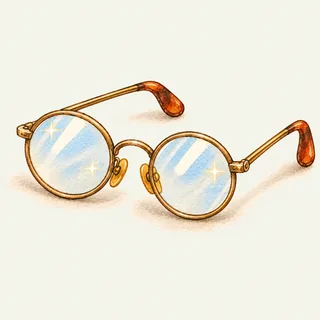
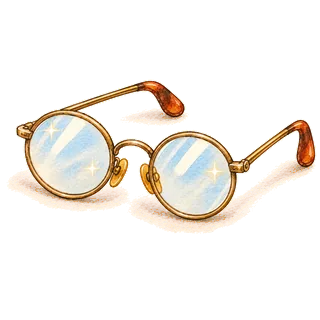
Průhledné pozadí u kreslených věcí
Obrázky zásilek z ChatGPT mají krémové pozadí a na barevné kartě
(pohlednice, balík) bylo vidět jako čtverec. Násobení barev ho jen
ztlumilo. nastroje/obrazky.py teď u karet zprůhlední pozadí spojené
s okrajem obrázku a stín nechá poloprůhledný. CSS už barvy nenásobí.

Claude-Session: https://claude.ai/code/session_01GNaERCVCMNxDha3AsCqcsP

diff --git a/hra.css b/hra.css
@@ -328,8 +328,8 @@ button { font: inherit; color: inherit; }
 .zasilka__hore { display: flex; justify-content: space-between; align-items: flex-start; }
 .zasilka .emoji { font-size: 22px; line-height: 1; }
 .zasilka .obrazek { width: 30px; height: 30px; object-fit: contain; }
-/* Kreslené věci mají světlé pozadí jako papír karty. Násobení ho zneviditelní i na tmavší kartě. */
-.zasilka--obrazek .obrazek { width: 36px; height: 36px; margin: -3px 0 -4px -3px; mix-blend-mode: multiply; }
+/* Kreslené věci mají průhledné pozadí (nastroje/obrazky.py), takže můžou být o něco větší než emoji. */
+.zasilka--obrazek .obrazek { width: 36px; height: 36px; margin: -3px 0 -4px -3px; }
 .znamka {
   width: 16px;
   height: 19px;
@@ -421,7 +421,7 @@ button { font: inherit; color: inherit; }
 .panel__portret .obrazek { width: 100%; height: 100%; object-fit: cover; border-radius: 50%; }
 .panel__portret:has(.odznak) { position: relative; overflow: visible; }
 .panel__portret .odznak { top: auto; left: auto; right: -8px; bottom: -6px; margin: 0; width: 24px; height: 24px; font-size: 14px; border-width: 2px; }
-.panel__vec .obrazek { width: 20px; height: 20px; object-fit: contain; vertical-align: -4px; mix-blend-mode: multiply; }
+.panel__vec .obrazek { width: 20px; height: 20px; object-fit: contain; vertical-align: -4px; }
 .panel__kdo { align-self: end; font-family: var(--f-nadpis); font-weight: 700; font-size: 17px; }
 .panel__text { grid-column: 2; margin: 0; font-size: 17px; line-height: 1.42; text-wrap: pretty; }
 .panel__nove { grid-column: 1 / -1; margin: 8px 0 0; display: flex; flex-wrap: wrap; align-items: center; gap: 6px 10px; font-size: 15px; font-weight: 600; }
@@ -608,7 +608,7 @@ button { font: inherit; color: inherit; }
 .album__pocet { margin-left: auto; font-family: var(--f-razitko); font-size: 13px; font-variant-numeric: tabular-nums; }
 .album__polozka { display: grid; grid-template-columns: 28px minmax(0, 1fr); gap: 8px; padding: 5px 0; font-size: 15px; line-height: 1.4; }
 .album__karta .emoji { font-size: 18px; }
-.album__karta .obrazek { width: 24px; height: 24px; object-fit: contain; mix-blend-mode: multiply; }
+.album__karta .obrazek { width: 24px; height: 24px; object-fit: contain; }
 .arch .album__zbyva { margin: 4px 0 0 36px; font-size: 14px; font-style: italic; color: var(--sediva); }
 
 /* Ladění: přidej #debug na konec adresy */

diff --git a/nastroje/obrazky.py b/nastroje/obrazky.py
@@ -6,13 +6,14 @@
 # Jména souborů určují, kam obrázek patří:
 #   pozadi.png        scéna obce (ořízne se na 3:4, 900 × 1200)
 #   <id cíle>.png     portrét cíle z cile.csv (ořízne se na čtverec, 320 × 320)
-#   <id karty>.png    obrázek karty z karty.csv (čtverec, 320 × 320)
+#   <id karty>.png    obrázek karty z karty.csv (čtverec, 320 × 320). Jednobarevné pozadí kolem věci
+#                     se zprůhlední (stín zůstane jako poloprůhledný), aby na barevné kartě nebyl vidět čtverec.
 #   <id cíle>_<cokoli>.png   portrét pro změněnou ikonu cíle. Když má cíl v kombinace.csv jen jednu změnu
 #                     ikony (ikona:pes:🐕💤), přiřadí se sám. Jinak nástroj vypíše řádek k ručnímu doplnění.
 # Ručně doplněné řádky v obrazky.csv zůstanou. Potřebuje Pillow (python3 -m pip install pillow).
 import csv, os, re, sys
 
-from PIL import Image, ImageOps
+from PIL import Image, ImageDraw, ImageOps
 
 KOREN = os.path.dirname(os.path.dirname(os.path.abspath(__file__)))
 PRIPONY = ('.png', '.jpg', '.jpeg', '.webp')
@@ -37,10 +38,50 @@ def orizni(obr, pomer):
     return obr.crop((0, (v - nova) // 2, s, (v - nova) // 2 + nova))
 
 
-def preved(zdroj, cil, rozmer):
+def zpruhledni(obr, prah=80, cisto=3):
+    # Pozadí = barva okraje obrázku. Průhledné je jen pozadí spojené s okrajem, takže světlá místa
+    # uvnitř věci zůstanou. Odstín pozadí se odečte (jako „barva do průhlednosti“ v GIMPu): stín
+    # a vyhlazené hrany jsou pak poloprůhledné a tmavé, bez krémového lemu.
+    obr = obr.convert('RGB')
+    s, v = obr.size
+    px = obr.load()
+    okraj = [px[x, y] for x in range(s) for y in (0, 1, v - 2, v - 1)] + [px[x, y] for y in range(v) for x in (0, 1, s - 2, s - 1)]
+    pozadi = tuple(sorted(p[i] for p in okraj)[len(okraj) // 2] for i in range(3))
+    rozdil = lambda p: max(abs(p[i] - pozadi[i]) for i in range(3))
+    maska = Image.new('L', (s, v))
+    mp = maska.load()
+    for y in range(v):
+        for x in range(s):
+            mp[x, y] = 255 if rozdil(px[x, y]) <= prah else 0
+    kresli = ImageDraw.Draw(maska)
+    for x, y in [(x, y) for x in range(s) for y in (0, v - 1)] + [(x, y) for y in range(v) for x in (0, s - 1)]:
+        if mp[x, y] == 255:
+            ImageDraw.floodfill(maska, (x, y), 128)
+    vysledek = Image.new('RGBA', (s, v))
+    vp = vysledek.load()
+    for y in range(v):
+        for x in range(s):
+            p = px[x, y]
+            if mp[x, y] != 128:
+                vp[x, y] = (*p, 255)
+                continue
+            if rozdil(p) <= cisto:
+                vp[x, y] = (*pozadi, 0)
+                continue
+            a = max((pozadi[i] - p[i]) / pozadi[i] if p[i] < pozadi[i] else (p[i] - pozadi[i]) / max(1, 255 - pozadi[i]) for i in range(3))
+            a = min(1.0, a)
+            barva = tuple(max(0, min(255, round((p[i] - pozadi[i]) / a + pozadi[i]))) for i in range(3))
+            vp[x, y] = (*barva, round(a * 255))
+    return vysledek
+
+
+def preved(zdroj, cil, rozmer, pruhledne=False):
     obr = ImageOps.exif_transpose(Image.open(zdroj))
     obr = obr.convert('RGBA' if 'A' in obr.getbands() else 'RGB')
     obr = orizni(obr, rozmer[0] / rozmer[1]).resize(rozmer, Image.LANCZOS)
+    # Obrázek, který už průhlednost má (třeba z ChatGPT s „transparent background“), zůstane, jak je.
+    if pruhledne and not (obr.mode == 'RGBA' and obr.getchannel('A').getextrema()[0] < 250):
+        obr = zpruhledni(obr)
     obr.save(cil, 'WEBP', quality=82, method=6)
     return os.path.getsize(cil)
 
@@ -87,7 +128,8 @@ def main():
                 radek = None
                 navrh = ' nebo '.join(sorted(zmeny.get(cil, ()))) if cil else ''
                 rucne.append(f'  {nazev}: doplň do obrazky.csv řádek cil;{cil or "<id cíle>"};{navrh or "<ikona>"};{soubor}')
-        velikost = preved(os.path.join(vstup, nazev), os.path.join(slozka, soubor), rozmer)
+        pruhledne = bool(radek) and radek['druh'] == 'karta'
+        velikost = preved(os.path.join(vstup, nazev), os.path.join(slozka, soubor), rozmer, pruhledne)
         print(f'{nazev} -> data/{obec}/{soubor} ({velikost // 1024} kB)')
         if radek:
             radek['soubor'] = soubor

diff --git a/grafika.md b/grafika.md
@@ -26,7 +26,7 @@ Prompty jsou anglicky, protože ChatGPT podle nich drží styl přesněji. Každ
 - Styl je vždy stejný (blok „Style“ v každém promptu).
 - Scéna je na výšku 2:3. Hra ji ořízne na 3:4, takže horních a dolních zhruba 8 % se ztratí. Rozložení budov odpovídá pozicím postav v `cile.csv` (x, y v procentech), postavy stojí v medailonech přes scénu. Ve scéně nejsou lidé ani zvířata.
 - Portrét je čtverec, hlava uprostřed, hra ho ořízne do kruhu. Pozadí je hladké, světlé (#F2F3EC, barva papíru ve hře).
-- Věc je čtverec s jedním předmětem na stejném světlém pozadí. Hra pozadí na kartě zprůhlední násobením barev.
+- Věc je čtverec s jedním předmětem na stejném světlém pozadí. Převodní nástroj pozadí kolem věci zprůhlední a stín nechá poloprůhledný. Funguje to jen s hladkým jednobarevným pozadím, proto ho prompty chtějí.
 - Žádné texty, písmena ani čísla v obrázcích. Žádné postavy, kresby ani styl z cizích her, filmů a seriálů.
 - Změněná ikona postavy (třeba spící pes) má vlastní obrázek `<id cíle>_<něco>.png`, například `pes_spi.png`.
 

diff --git a/README.md b/README.md
@@ -187,4 +187,4 @@ Obrázky jsou ve složce `data/<obec>/obrazky/` a seznam v `data/<obec>/obrazky.
 
 Kde obrázek chybí, zůstane emoji. Když cíl změní ikonu a pro novou ikonu obrázek nemá, ukáže se emoji, aby změna nezapadla. Výraz při reakci (`vyraz` v `kombinace.csv`) se u portrétu ukáže jako malý odznak vedle medailonu. Sbalená verze má obrázky v balíku obce.
 
-Obrázky z ChatGPT převede `python3 nastroje/obrazky.py <obec> <složka>`: scénu ořízne na 3:4 (900 × 1200), ostatní na čtverec 320 × 320, uloží WebP a doplní `obrazky.csv`. Prompty, styl a postup jsou v `grafika.md`.
+Obrázky z ChatGPT převede `python3 nastroje/obrazky.py <obec> <složka>`: scénu ořízne na 3:4 (900 × 1200), ostatní na čtverec 320 × 320, u zásilek zprůhlední jednobarevné pozadí, uloží WebP a doplní `obrazky.csv`. Prompty, styl a postup jsou v `grafika.md`.
